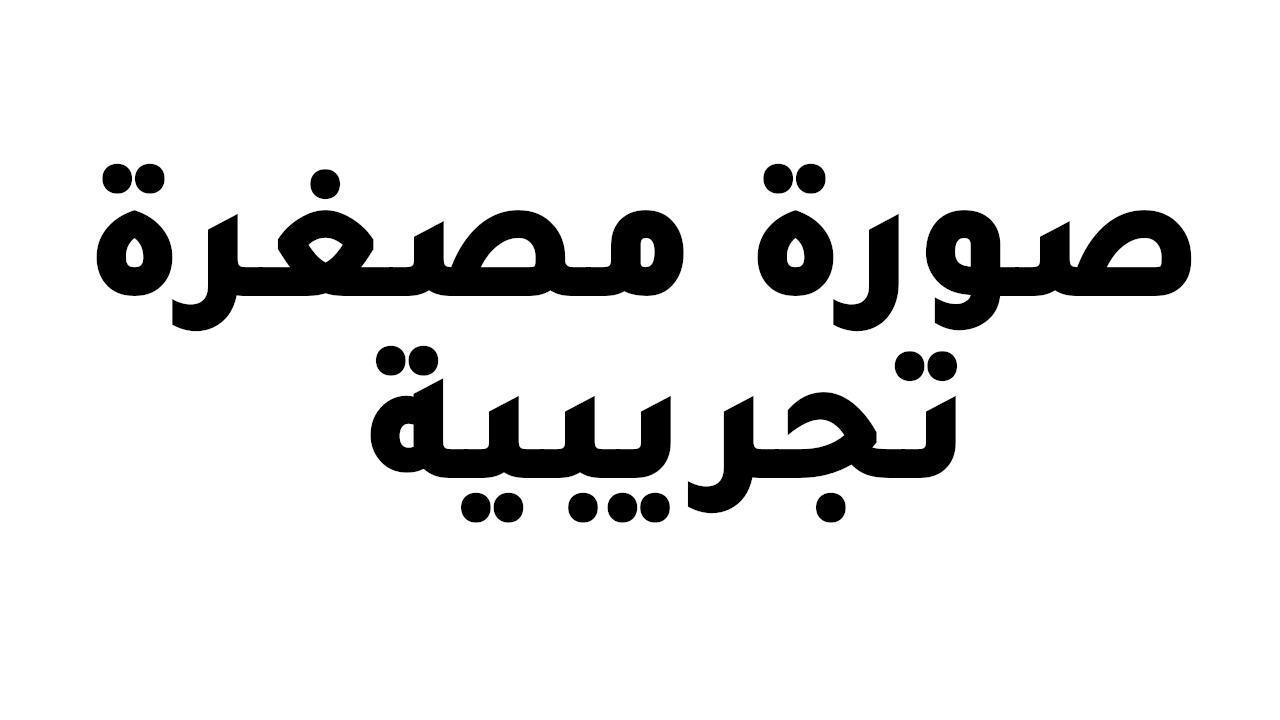
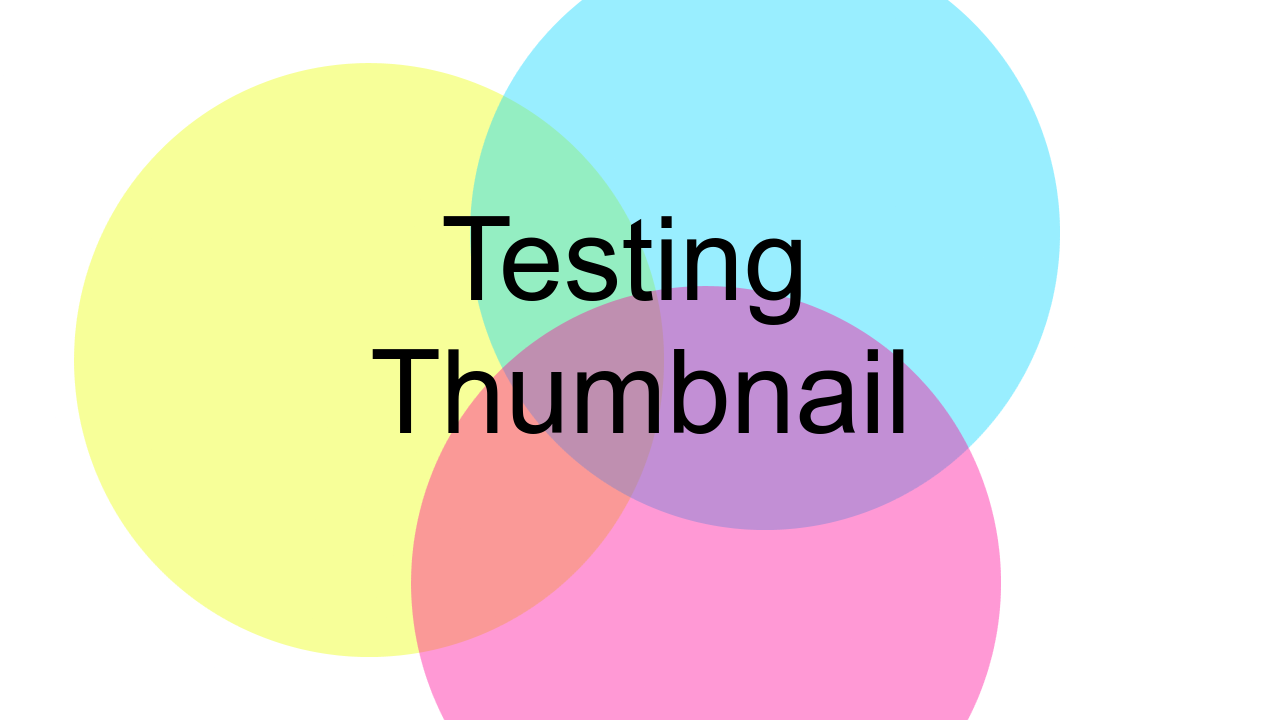
changing the language to english and the derction to ltr

diff --git a/index.html b/index.html
@@ -1,6 +1,5 @@
 <!DOCTYPE html>
-<html lang="ar" dir="rtl">
-<head>
+<html lang="en" > <head>
     <meta charset="UTF-8">
     <meta name="viewport" content="width=device-width, initial-scale=1.0">
     <meta name="description" content="A fake YouTube page for learning HTML & CSS">
@@ -20,14 +19,14 @@
 
             <div class="right-corner">
                 <div class="menu"><img src="resources/icons/menu.svg" alt="burger menu"></div>
-                <a href="#"><img class="youtube-logo" src="resources/icons/Youtube.png" alt="YouTube Logo"></a>
+                <a href="#" class="logo-container"><img class="youtube-logo" src="resources/icons/Youtube.png" alt="YouTube Logo"></a>
             </div>
 
             <div class="search-bar">
-                    <input type="search" name="search-bar" placeholder="اكتب للبحث...">
-                    <button type="submit">
-                        <img src="resources/icons/search.svg" alt="search">
-                    </button>
+                <input type="search" name="search-bar" placeholder="Search...">
+                <button type="submit">
+                    <img src="resources/icons/search.svg" alt="search">
+                </button>
                 </div>
                 
                 <div class="user-icons">
@@ -37,135 +36,135 @@
             </header>
             
             <div class="filter-bar">
-                <button class="selected">كل المحتوى</button>
-                <button>الرائجة</button>
-                <button>العاب الفيديو</button>
-                <button>بودكاست</button>
-                <button>محتوى جديد لك</button>
-                <button>تمت مشاهدته</button>
+                <button class="selected">All</button>
+                <button>Trending</button>
+                <button>Gaming</button>
+                <button>Podcasts</button>
+                <button>New to you</button>
+                <button>Watched</button>
             </div>
         </div>
 
     <aside class="side-bar">
         <a href="#">
             <img src="resources/icons/home.svg" alt="Home">
-            <span> الرئيسية</span>
+            <span>Home</span>
         </a>
         <a href="#" >
             <img src="resources/icons/shorts.svg" alt="Shorts">
-            <span>شورتز</span>
+            <span>Shorts</span>
         </a>
         <a href="#" >
             <img src="resources/icons/subscriptions.svg" alt="Subscriptions">
-            <span>الاشتراكات</span>
+            <span>Subscriptions</span>
         </a>
         <a href="#" >
             <img src="resources/icons/you.png" alt="You">
-            <span>انت</span>
+            <span>You</span>
         </a>
         <a  class="downloads" href="#" >
             <img src="resources/icons/download.svg" alt="download">
-            <span>التنزيلات</span>
+            <span>Downloads</span>
         </a>
     </aside>
 
     <main class="video-grid">
         <a href="#" class="video-card">
             <img class="video-thumbnail" src="resources/thumbnail.png" alt="Video thumbnail">
-            <h4 class="video-title">عنوان مقطع فيديو طويل ومثير للاهتمام</h4>
-            <p class="video-meta">100 مليون مشاهدة | قبل 2 أيام</p>
+            <h4 class="video-title">A very long and interesting video title</h4>
+            <p class="video-meta">100M views | 2 days ago</p>
         </a>
 
         <a href="#" class="video-card">
             <img class="video-thumbnail" src="resources/thumbnail.png" alt="Video thumbnail">
-            <h4 class="video-title">وهذا عنوان آخر لكنه قصير</h4>
-            <p class="video-meta">8 الف مشاهدة | قبل 10 أيام</p>
+            <h4 class="video-title">And this is another, but shorter, title</h4>
+            <p class="video-meta">8K views | 10 days ago</p>
         </a>
 
         <a href="#" class="video-card">
             <img class="video-thumbnail" src="resources/thumbnail.png" alt="Video thumbnail">
-            <h4 class="video-title">مقطع فيديو عادي جدًا</h4>
-            <p class="video-meta">0 مشاهدة | قبل 3 أيام</p>
+            <h4 class="video-title">A very normal video</h4>
+            <p class="video-meta">0 views | 3 days ago</p>
         </a>
 
         <a href="#" class="video-card">
             <img class="video-thumbnail" src="resources/thumbnail.png" alt="Video thumbnail">
-            <h4 class="video-title">فكرة لم تخطر على بال أحد</h4>
-            <p class="video-meta">1 مليون مشاهدة | قبل 2 شهر</p>
+            <h4 class="video-title">An idea no one thought of</h4>
+            <p class="video-meta">1M views | 2 months ago</p>
         </a>
         <a href="#" class="video-card">
             <img class="video-thumbnail" src="resources/thumbnail.png" alt="Video thumbnail">
-            <h4 class="video-title">هل تقرأ هذا العنوان حقًا؟</h4>
-            <p class="video-meta">9 الف مشاهدة | قبل 10 أيام</p>
+            <h4 class="video-title">Are you really reading this title?</h4>
+            <p class="video-meta">9K views | 10 days ago</p>
         </a>
         <a href="#" class="video-card">
             <img class="video-thumbnail" src="resources/thumbnail.png" alt="Video thumbnail">
-            <h4 class="video-title">مجرد اختبار للشبكة</h4>
-            <p class="video-meta">999 الف مشاهدة | قبل 5 سنوات</p>
+            <h4 class="video-title">Just a test for the grid</h4>
+            <p class="video-meta">999K views | 5 years ago</p>
         </a>
         <a href="#" class="video-card">
             <img class="video-thumbnail" src="resources/thumbnail.png" alt="Video thumbnail">
-            <h4 class="video-title">المقطع الذي انتظره الجميع</h4>
-            <p class="video-meta"> الجميع | قبل 10 سنوات</p>
+            <h4 class="video-title">The video everyone was waiting for</h4>
+            <p class="video-meta">Everyone | 10 years ago</p>
         </a>
         <a href="#" class="video-card">
             <img class="video-thumbnail" src="resources/thumbnail.png" alt="Video thumbnail">
-            <h4 class="video-title">هنا يوضع عنوان جذاب</h4>
-            <p class="video-meta">3 مليار مشاهدة | قبل 7 سنوات</p>
+            <h4 class="video-title">Attractive title goes here</h4>
+            <p class="video-meta">3B views | 7 years ago</p>
         </a>
         <a href="#" class="video-card">
             <img class="video-thumbnail" src="resources/thumbnail.png" alt="Video thumbnail">
-            <h4 class="video-title">اخترعت الة زمن وسافرت الى المستقبل! لايفوتكم</h4>
-            <p class="video-meta">898 الف مشاهدة | بعد 10 أيام</p>
+            <h4 class="video-title">I invented a time machine and traveled to the future!</h4>
+            <p class="video-meta">898K views | 10 days from now</p>
         </a>
         <a href="#" class="video-card">
             <img class="video-thumbnail" src="resources/thumbnail.png" alt="Video thumbnail">
-            <h4 class="video-title">لا تضغط على هذا المقطع</h4>
-            <p class="video-meta">0  مشاهدة | قبل 40 سنة</p>
+            <h4 class="video-title">Don't click this video</h4>
+            <p class="video-meta">0 views | 40 years ago</p>
         </a>
         <a href="#" class="video-card">
             <img class="video-thumbnail" src="resources/thumbnail.png" alt="Video thumbnail">
-            <h4 class="video-title">محتوى عالي الجودة</h4>
-            <p class="video-meta">8  مشاهدة | قبل 20 أيام</p>
+            <h4 class="video-title">High quality content</h4>
+            <p class="video-meta">8 views | 20 days ago</p>
         </a>
         <a href="#" class="video-card">
             <img class="video-thumbnail" src="resources/thumbnail.png" alt="Video thumbnail">
-            <h4 class="video-title">أفضل فيديو لهذا اليوم</h4>
-            <p class="video-meta">600 مليون مشاهدة | قبل 15 ساعة</p>
+            <h4 class="video-title">Best video of the day</h4>
+            <p class="video-meta">600M views | 15 hours ago</p>
         </a>
         <a href="#" class="video-card">
             <img class="video-thumbnail" src="resources/thumbnail.png" alt="Video thumbnail">
-            <h4 class="video-title">شيء ما عن القطط غالبًا</h4>
-            <p class="video-meta">8 الف مشاهدة | قبل 10 أيام</p>
+            <h4 class="video-title">Something about cats, probably</h4>
+            <p class="video-meta">8K views | 10 days ago</p>
         </a>
         <a href="#" class="video-card">
             <img class="video-thumbnail" src="resources/thumbnail.png" alt="Video thumbnail">
-            <h4 class="video-title">فيديو رقم أربعة عشر</h4>
-            <p class="video-meta">14 مشاهدة | قبل 14 أيام</p>
+            <h4 class="video-title">Video number fourteen</h4>
+            <p class="video-meta">14 views | 14 days ago</p>
         </a>
         <a href="#" class="video-card">
             <img class="video-thumbnail" src="resources/thumbnail.png" alt="Video thumbnail">
-            <h4 class="video-title">هذا هو العنوان الأخير</h4>
-            <p class="video-meta">80000000 مليار مشاهدة | قبل 1000 مليار سنة</p>
+            <h4 class="video-title">This is the final title</h4>
+            <p class="video-meta">80000000B views | 1000 billion years ago</p>
         </a>
     </main>
 
     <nav class="bottom-bar">
-         <a href="#">
+        <a href="#">
              <img src="resources/icons/home.svg" alt="Home">
-             <span> الرئيسية</span>
+             <span>Home</span>
          </a>
          <a href="#" >
              <img src="resources/icons/shorts.svg" alt="Shorts">
-             <span>شورتز</span>
+             <span>Shorts</span>
          </a>
         <a href="#" >
             <img src="resources/icons/subscriptions.svg" alt="Subscriptions">
-            <span>الاشتراكات</span>
+            <span>Subscriptions</span>
         </a>
         <a href="#" >
             <img src="resources/icons/you.png" alt="You">
-            <span>انت</span>
+            <span>You</span>
         </a>
     </nav>
 </body>

diff --git a/style/header.css b/style/header.css
@@ -29,8 +29,12 @@
 .youtube-logo {
     width: 100px;
     height: 30px;
-}
 
+}
+.logo-container {
+    display: flex;
+    align-items: center;
+}
 .user-icons img {
     width: 30px;
     height: 30px;
@@ -46,11 +50,11 @@
 
 .right-corner {
     display: flex;
-    justify-content: flex-start;
+    justify-content: flex-end;
 }
 .menu {
-    margin-right: 20px;
-    margin-left: 55px;
+    margin-left: 20px;
+    margin-right: 55px;
     align-self: center;
     padding: 10px;
     border-radius: 10px;
@@ -66,7 +70,7 @@
 .filter-bar {
     display: flex;
     margin-top: 8px;
-    margin-right: 100px;
+    margin-left: 120px;
 }
 
 .filter-bar button {
@@ -75,7 +79,7 @@
     border: solid 0px;
     border-radius: 5px;
     padding: 5px;
-    margin-left: 5px;
+    margin-right: 5px;
 }
 
 .filter-bar button.selected {

diff --git a/style/search-bar.css b/style/search-bar.css
@@ -14,9 +14,10 @@
     color: white;
     z-index:1;
     border: solid 0px;
-    border-radius: 0px 20px 20px 0px;
+    border-radius: 20px 0px 0px 20px;
     width: 70%;
     height: 40px;
+    padding-left: 20px;
 }
 
 .main-header input:focus {
@@ -28,7 +29,7 @@
     width: 50px;
     height: 43px;
     background-color: #252525;
-    border-radius: 20px 0px 0px 20px;
+    border-radius: 0px 20px 20px 0px;
 }
 
 .search-bar button img {

diff --git a/style/general.css b/style/general.css
@@ -7,6 +7,7 @@
 body {
     display: grid;
     height: 100dvh;
+    font-family: "tajwal";
     grid-template-columns: auto 1fr;
     grid-template-rows: auto 1fr auto;
     grid-template-areas: 
@@ -67,4 +68,13 @@ body {
     .video-grid {
          grid-template-columns: repeat(5, 1fr);
     }
+}
+
+
+/* Some other general rules */
+a {
+    text-decoration: none;
+}
+a:visited {
+    text-decoration: none;
 }

diff --git a/style/side.css b/style/side.css
@@ -13,7 +13,7 @@
 .side-bar {
     display: flex;
     flex-flow: column;
-    padding-left: 10px;
+    padding-right: 10px;
 }
 .side-bar a span {
     margin-top: 5px;

diff --git a/README.md b/README.md
@@ -1,46 +1,45 @@
-### مشروع استنساخ واجهة يوتيوب (YouTubeUI Clone Project)
+### YouTube UI Clone Project
 
-![صورة للمشروع](screenshot.png)
-##### تم انشاء هذا المشروع لهدف التعليم وصقل مهاراتي في لغتي `html`و`css`
-##### عملت على هذا المشروع البسيط في وقت فراغي وهو اول مشروع مكتمل لي في هاتين اللغتين واستغرق العمل عليه حوالي 10 ايام بمدة عمل قصيرة لكل يوم وواجهت بعض الصعوبات اثناء انشائه نظرا لقلة خبرتي في مجال الواجهات الامامية
+![Project Screenshot](screenshot.png)
 
----
-
-## 🚀 المعاينة الحية (Live Demo)
-
-يمكنك مشاهدة النسخة الحية من المشروع على الرابط التالي:
-
-[**اضغط هنا للمشاهدة**](https://al-jbri.github.io/YoutubeUI-clone/)
-
+##### This project was created to learn and hone my skills in HTML and CSS. I worked on it in my spare time as my first complete project in these technologies.
 
 ---
 
-## ✨ الميزات الرئيسية
+## 🚀 Live Demo
 
-* **تصميم متجاوب بالكامل:** تم بناؤه ليعمل على مختلف أحجام الشاشات، من الجوال إلى الكمبيوتر
-* **تخطيط حديث وواضح:** استعملت بشكل اساسي الشبكات (CSS Grid) والصناديق المرنة (Flexbox) لبناء الموقع
-* **أنيميشنز خاصة:** تم اضافة بعض الحركات الجرافيكية البسيطة بهدف صقل مهاراتي في عمل الرسوم المتحركة في css
-* **كود نظيف:** حاولت بقدر استطاعتي المحافظة على امكانية الوصول وتنضيف الكود قدر المستطاع.
+You can view the live version of the project at the following link:
 
----
-
-## 🛠 التقنيات المستخدمة
-
-* **HTML5:** لبناء هيكل الصفحة الدلالي.
-* **CSS3:** للتنسيقات المتقدمة، بما في ذلك:
-    * **CSS Grid** (لتخطيط الصفحة الرئيسي).
-    * **Flexbox** (لتنسيق العناصر الداخلية مثل الهيدر والكروت).
-    * **Media Queries** (للتصميم المتجاوب).
-    * **CSS Animations & Transitions** (للتأثيرات الحركية).
+[**View Live Demo**](https://al-jbri.github.io/YoutubeUI-clone/)
 
 ---
 
-## 📂 كيفية تشغيل المشروع محلياً
+## ✨ Key Features
 
-المشروع عبارة عن ملفات HTML و CSS ثابتة ولا يحتاج أي تثبيت.
+* **Fully Responsive Design:** Built to work on various screen sizes, from mobile to desktop.
+* **Modern & Clean Layout:** Primarily used CSS Grid and Flexbox to build the site.
+* **Custom Animations:** Added some simple animations to practice and hone my skills in CSS animations.
+* **Clean Code:** I tried my best to maintain accessibility and keep the code as clean as possible.
 
-1.  قم باستنساخ المستودع (Clone the repo):
+---
+
+## 🛠 Technologies Used
+
+* **HTML5:** For building the semantic page structure.
+* **CSS3:** For advanced styling, including:
+    * **CSS Grid** (for the main page layout).
+    * **Flexbox** (for styling internal elements like the header and cards).
+    * **Media Queries** (for responsive design).
+    * **CSS Animations & Transitions** (for motion effects).
+
+---
+
+## 📂 How to Run This Project Locally
+
+This project consists of static HTML and CSS files and does not require any installation.
+
+1.  Clone the repo:
     ```bash
-    git clone https://github.com/al-jbri/youtubeUI-clone
+    git clone [https://github.com/al-jbri/youtubeUI-clone](https://github.com/al-jbri/youtubeUI-clone)
     ```
-2.  افتح ملف `index.html` في المتصفح المفضل لديك.
+2.  Open the `index.html` file in your favorite browser.
